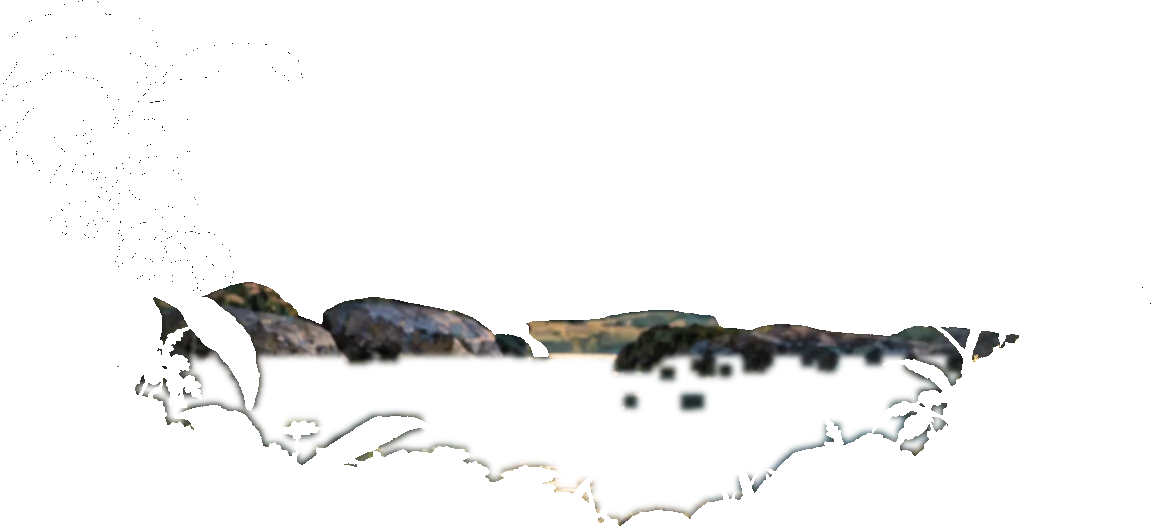
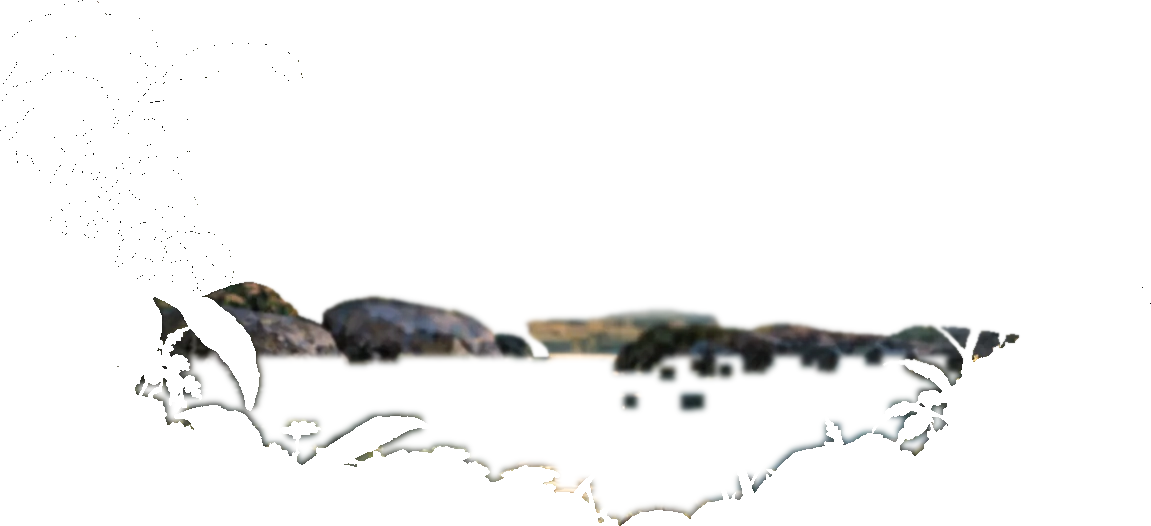
Consistent depth of field for the far river zone; blend the far bank's hard edge
Claude-Session: https://claude.ai/code/session_0178fiKuzCTDLTmbjUn3RG9Q

Changed region(s): [[0.3649, 0.5779, 0.8818, 0.6692], [0.3041, 0.5475, 0.3649, 0.5779], [0.2433, 0.5779, 0.3041, 0.6084]]

diff --git a/tools/paper-cut/build_forest.py b/tools/paper-cut/build_forest.py
@@ -35,6 +35,30 @@ def split(im):
     tw = np.clip(a * (1 - t) * 255, 0, 255).astype(np.uint8); tw[tw < 14] = 0
     twigs[..., 3] = tw
     return trunk, twigs
+def dof(img, sigma_map):
+    # depth of field: blend between a few blur levels by a per-pixel sigma map (premultiplied for RGBA)
+    rgba = img.shape[2] == 4
+    f = img.astype(np.float32)
+    if rgba: f[..., :3] *= f[..., 3:4] / 255
+    levels = [0, .8, 1.6, 2.6]
+    stack = [f if s == 0 else cv2.GaussianBlur(f, (0, 0), s) for s in levels]
+    out = np.zeros_like(f)
+    sm = np.clip(sigma_map, 0, levels[-1])
+    for i in range(len(levels) - 1):
+        lo, hi = levels[i], levels[i + 1]
+        w = np.clip((sm - lo) / (hi - lo), 0, 1)[..., None]
+        inside = ((sm >= lo) & (sm <= hi))[..., None]
+        out = np.where(inside, stack[i] * (1 - w) + stack[i + 1] * w, out)
+    if rgba:
+        a = np.clip(out[..., 3:4], 1e-3, 255)
+        out[..., :3] = np.where(out[..., 3:4] > .5, out[..., :3] * 255 / a, 0)
+    return np.clip(out, 0, 255).astype(np.uint8)
+
+# far zone behind the river: one consistent lens blur (focus is on the beetle)
+_ys, _xs = np.mgrid[0:H, 0:W].astype(np.float32)
+_far = np.clip(1 - ((_xs - 720) / 420) ** 2 - ((_ys - 650) / 95) ** 2, 0, 1) ** .6     # soft ellipse around the far bank
+SIGMA_FAR = _far * np.clip((735 - _ys) / 60, 0, 1) * 2.2 + _far * .5                     # forest/bank more, river edge less
+
 def over(*ims):
     c = Image.new('RGBA', (W, H), (0, 0, 0, 0))
     for im in ims: c.alpha_composite(Image.fromarray(im) if isinstance(im, np.ndarray) else im)
@@ -72,7 +96,7 @@ else:
 t02, w02 = split(load('02-trees-left'))
 t03, w03 = split(load('03-trees-right'))
 # rear trees are far away: keep them whole and still (their split-off twigs looked like loose fragments)
-save(over(load('01-background'), load('01b-rear-tree-left'), l01c), 'back', opaque=True)
+save(dof(np.array(over(load('01-background'), load('01b-rear-tree-left'), l01c)), SIGMA_FAR), 'back', opaque=True)
 save(over(t02, t03), 'front-trunks')
 save(w02, '02-trees-left-twigs'); save(w03, '03-trees-right-twigs')
 # lake: only the water ripples; rocks and reeds stay still on top of it
@@ -87,7 +111,10 @@ wl, sl = lake.copy(), lake.copy()
 wl[..., 3] = (lake[..., 3] * water).astype(np.uint8)
 sl[..., 3] = (lake[..., 3] * (1 - water)).astype(np.uint8)
 water_full = lake.copy(); water_full[..., 3] = np.where(water > 0.02, lake[..., 3], 0)   # opaque water under the still parts
-save(water_full, 'lake-water'); save(sl, 'lake-still')
+# soften the hard top edge of the far bright bank strip (x 600-790, y~660)
+band = np.clip(1 - np.abs(_ys - 662) / 10, 0, 1) * ((_xs > 590) & (_xs < 800))
+sl[..., 3] = (sl[..., 3].astype(np.float32) * (1 - .55 * band)).astype(np.uint8)
+save(water_full, 'lake-water'); save(dof(sl, SIGMA_FAR), 'lake-still')
 save(over(load('05-main-bank'), load('07-beetle-body')), 'bank-beetle')
 save(load('06-beetle-head'), '06-beetle-head')
 # Foreground shade: the blurred foreground leaves (09-11) repaint plants that also exist sharp in the
